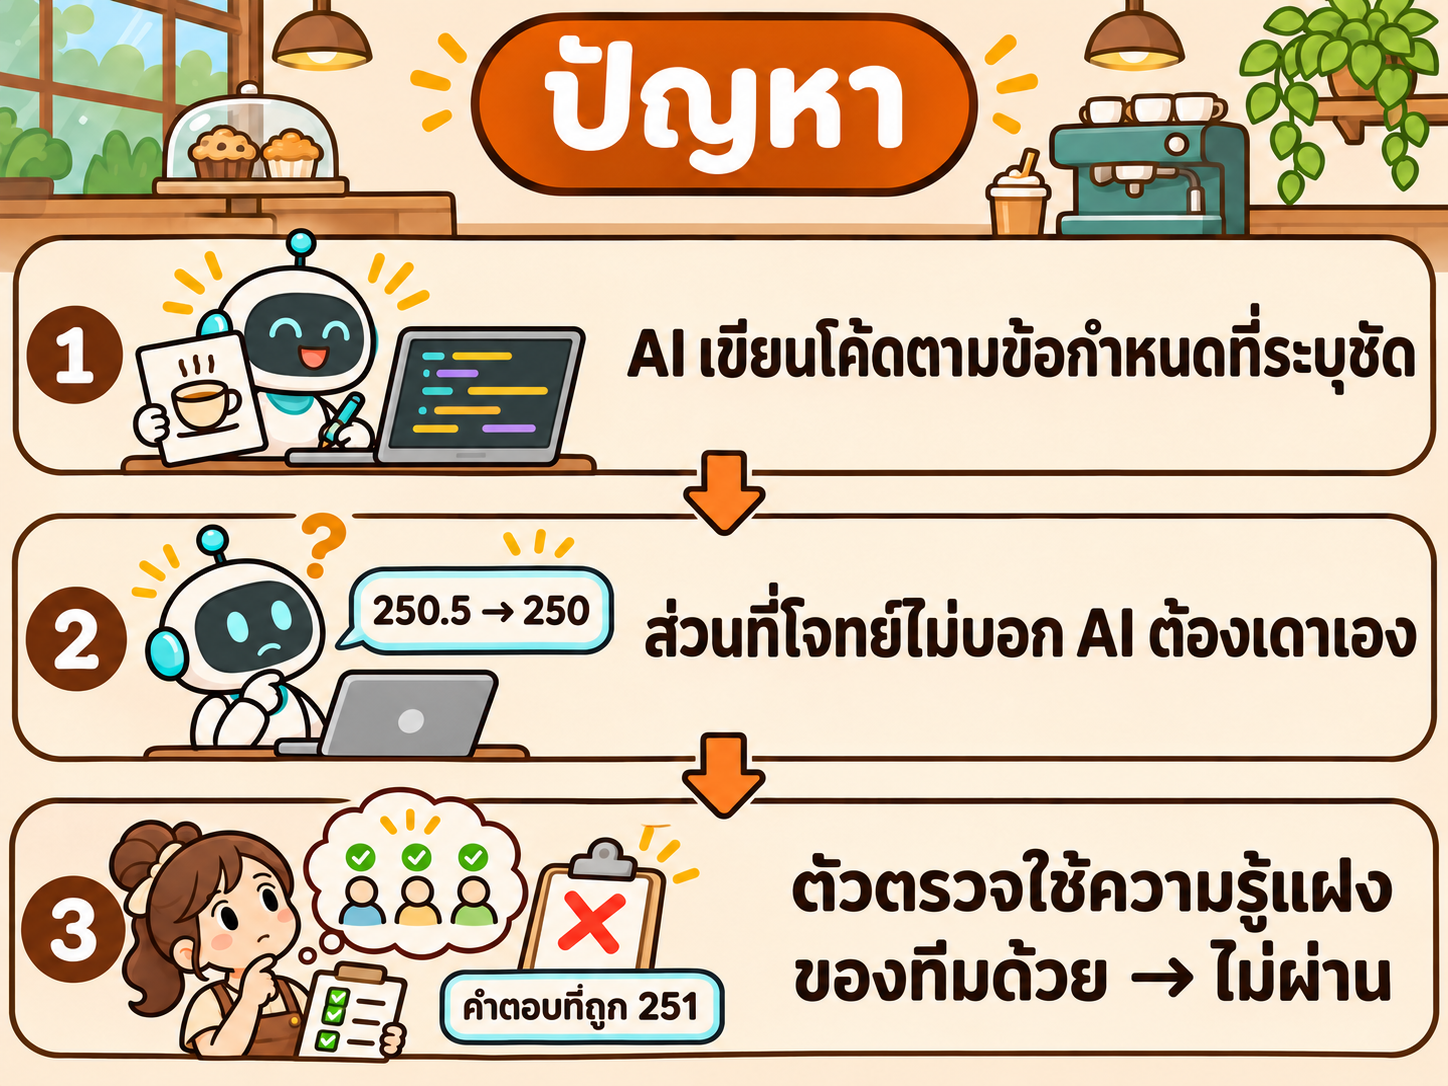
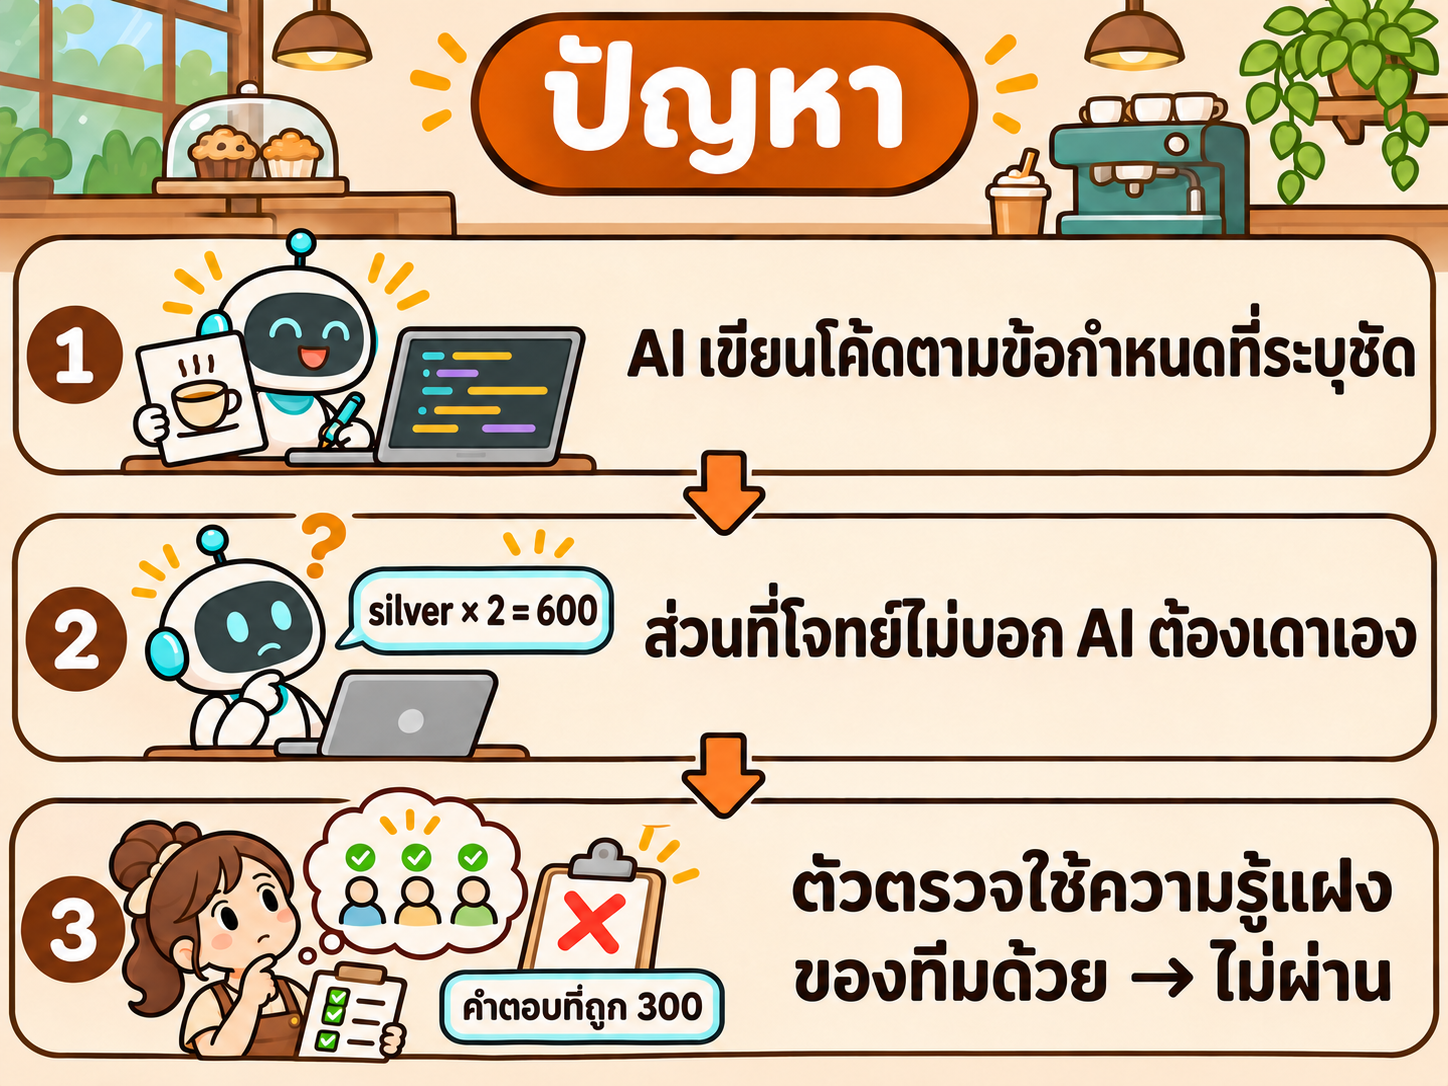
Skill Optimizer: cashback examples follow the policy grader, LAB 0 builds the tool
- 1.1 lead example is the real C1 failure (silver birthday: 600 vs 300)
- 1.2 declares both tacit groups; the business policy table moves here from 1.7
- 1.2 rule 2 uses non-cashback rounding examples and notes the C2 exception
- 1.4 worked cases show C1 and C2; d03 and g19 images redrawn to match
- No-skill figures in 1.2 come from regrading the stored LAB 1 code with the current grader
- LAB 0 is split into 0.1 (draft prompt that builds the skill-optimizer folder, not run yet)
  and 0.2 (install into the container)

diff --git a/03_week03/05_Skill_Optimizer/tools/diagrams.py b/03_week03/05_Skill_Optimizer/tools/diagrams.py
@@ -78,8 +78,8 @@ def examples():
     rows = [  # (ทดสอบเพื่อดูอะไร, input, ความหมายของ input, ถูก, ผิด, ที่มาของค่าที่ผิด, ข้อตรวจ)
         ("ระบุชัด + ความรู้แฝง 1<br>กรณีธรรมดา คิดถูกไหม", "cashback(20000, \"gold\", False)", "ซื้อ 200 บาท · สมาชิก gold · ไม่ใช่เดือนเกิด", "500", "", "ทุก Trial ทำถูก", "contract basic"),
         ("ข้อกำหนดที่ระบุชัด<br>ขอบของเงื่อนไข 100 บาท", "cashback(9999, \"gold\", False)", "ซื้อ 99.99 บาท (ต่ำกว่า 100 บาท)", "0", "", "ทุก Trial ทำถูก", "boundary"),
-        ("ความรู้แฝงข้อ 2<br>ได้ .5 สตางค์ ปัดขึ้นไหม", "cashback(10020, \"gold\", False)", "ซื้อ 100.20 บาท → เงินคืน 250.5 สตางค์", "251", "250", "ไม่มีสกิล", "half_up"),
-        ("ความรู้แฝงข้อ 2<br>ปัดครั้งเดียวตอนท้ายไหม", "cashback(10020, \"silver\", True)", "silver เดือนเกิด → 150.3 × 2 = 300.6 สตางค์", "301", "300", "ไม่มีสกิล", "no_drift"),
+        ("นโยบายธุรกิจ C1<br>silver ได้ 2 เท่าในเดือนเกิดไหม", "cashback(20000, \"silver\", True)", "silver ซื้อ 200 บาท ในเดือนเกิด → ได้อัตราปกติ 1.5%", "300", "600", "ไม่มีสกิล · v0", "policy"),
+        ("นโยบายธุรกิจ C2<br>เงินที่ร้านจ่ายออก ปัดลงไหม", "cashback(10020, \"gold\", False)", "ซื้อ 100.20 บาท → เงินคืน 250.5 สตางค์", "250", "251", "v0", "policy"),
         ("ความรู้แฝงข้อ 3<br>ค่านอกช่วง ปฏิเสธไหม", "cashback(-1, \"gold\", False)", "ยอดซื้อติดลบ", "ValueError", "0", "ไม่มีสกิล", "reject_value"),
         ("ความรู้แฝงข้อ 3<br>ชนิดข้อมูลผิด ปฏิเสธไหม", "cashback(20000.0, \"gold\", False)", "ยอดซื้อเป็นเลขทศนิยม ไม่ใช่จำนวนเต็ม", "ValueError", "500.0 · TypeError", "ไม่มีสกิล · v0", "reject_type"),
         ("ความรู้แฝงข้อ 4<br>รันเป็นโปรแกรม ตอบถูกไหม", "stdin {\"tier\": \"gold\", …}", "ข้อมูลเดียวกับแถวแรก ส่งเป็นข้อความ JSON", "{\"ok\": true, \"result\": 500}", "{\"cashback\": 500}", "v0", "cli_ok"),

diff --git a/03_week03/05_Skill_Optimizer/inside_skill_optimizer/README.md b/03_week03/05_Skill_Optimizer/inside_skill_optimizer/README.md
@@ -29,7 +29,7 @@ skill-optimizer/
 └── examples/web-fixer/    ชุดโจทย์ตัวอย่าง (ใช้ในบท 03 · มีเฉพาะใน 00_resource)
 ```
 
-**ได้โฟลเดอร์นี้มาอย่างไร:** อยู่ใน repo นี้แล้ว · LAB 0 ติดตั้งเป็น global skill ของบัญชี yolo ใน container (`/root/ai-accounts/.Claude/shared/skills/skill-optimizer`) แล้ว Claude เปิดอ่าน `SKILL.md` จากตรงนั้น
+**ได้โฟลเดอร์นี้มาอย่างไร:** ฉบับของผู้สอนอยู่ใน repo นี้แล้ว · อยากสร้างเอง ใช้พรอมต์ใน [LAB 0 ขั้น 0.1](../README.md#ขั้น-01--สร้างโฟลเดอร์-skill-optimizer) · LAB 0 ขั้น 0.2 ติดตั้งเป็น global skill ของบัญชี yolo ใน container (`/root/ai-accounts/.Claude/shared/skills/skill-optimizer`) แล้ว Claude เปิดอ่าน `SKILL.md` จากตรงนั้น
 
 ---
 
